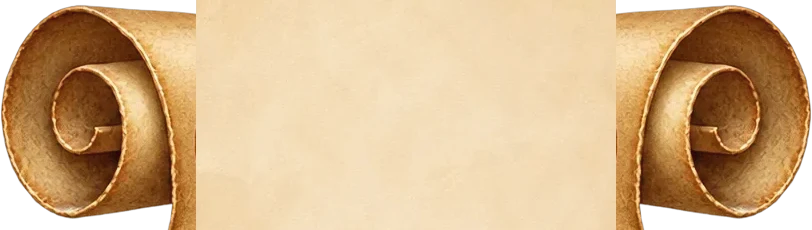
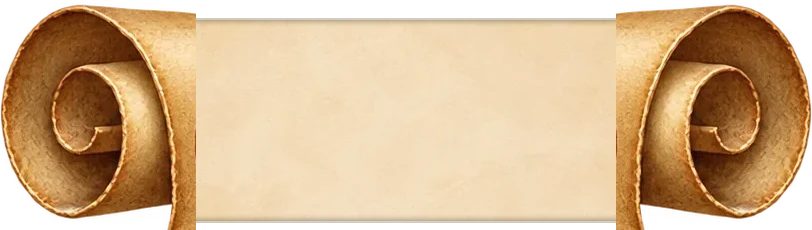
Книга: свитки-варианты без плоской подложки — пергамент заходит под рулоны, текст на пергаменте, перенос, центр буквы
Claude-Session: https://claude.ai/code/session_015A8DNsb5mr5DpbtnE63fGS

diff --git a/src/styles/parts/41-ny-book.css b/src/styles/parts/41-ny-book.css
@@ -1371,3 +1371,11 @@ html:has(.theme-ny_book .race-screen), body:has(.theme-ny_book .race-screen) { b
 .theme-ny_book .answer-block .choices-grid { grid-template-columns: repeat(2, minmax(0, 1fr)) !important; width: 100%; overflow: visible; max-height: none; }
 .theme-ny_book .answer-block .choices-grid .choice-plate { --sh: calc(64 * var(--u)); min-width: 0; font-size: calc(24 * var(--u)); overflow: visible; }
 .theme-ny_book .choices-grid .choice-plate, .theme-ny_book .host-screen > .choices-grid .choice-plate { overflow: visible; }
+
+/* свитки-варианты, правка 10.71: текст лежит прямо на пергаменте (без подложки), не заходит на рулоны, кружок-буква по центру высоты; длинное — переносится */
+.theme-ny_book .choices-grid .choice-plate { display: flex; align-items: center; overflow-wrap: anywhere; word-break: normal; hyphens: auto; line-height: 1.12; text-align: left; min-width: 0; text-wrap: pretty; }
+.theme-ny_book .choices-grid .choice-plate .key { align-self: center; margin: 0; flex: none; }
+.theme-ny_book .choices-grid .choice-plate:not(.correct) { background: none !important; }
+.theme-ny_book .choices-grid { align-items: center; }
+.theme-ny_book .host-screen .choices-grid.c-l .choice-plate { font-size: calc(26 * var(--u)); }
+.theme-ny_book .host-screen .choices-grid.c-xl .choice-plate { font-size: calc(21 * var(--u)); }

diff --git a/scripts/ny-book/make-hscroll.py b/scripts/ny-book/make-hscroll.py
@@ -5,8 +5,23 @@
 usage: python3 scripts/ny-book/make-hscroll.py"""
 from PIL import Image
 src = Image.open('public/ny-book/scroll.webp').convert('RGBA')
-cap = src.crop((0, 22, 196, 252))          # спираль рулона + кусок цилиндра
-mid = src.crop((340, 340, 900, 570))       # чистый пергамент без рамки и декора
-W = Image.new('RGBA', (196 + 420 + 196, 230), (0, 0, 0, 0))
-W.paste(cap, (0, 0), cap); W.paste(mid.resize((420, 230)), (196, 0)); cr = cap.transpose(Image.FLIP_LEFT_RIGHT); W.paste(cr, (196 + 420, 0), cr)
-W.save('public/ny-book/hscroll.webp', quality=88)   # 812×230: border-image slice 0 196 0 196 (края не растягиваются, середина — да)
+import numpy as np
+cap = src.crop((0, 22, 196, 252))          # спираль рулона + кусок цилиндра (непрозрачные строки на стыке: 14…229)
+mid = src.crop((340, 340, 900, 555))       # чистый пергамент без рамки и декора, высота 215 = высоте листа на стыке с рулоном
+H, MW = 230, 420
+W = Image.new('RGBA', (196 + MW + 196, H), (0, 0, 0, 0))
+m = mid.resize((MW, 215))
+mid_h = 215
+arr = np.array(m).astype(float)
+# кромка листа: по верху и низу пергамент темнеет (как край бумаги) и слегка закругляется — не плоский прямоугольник поверх рулонов
+for i in range(10):
+    k = 1 - 0.35 * (1 - i / 10) ** 2
+    arr[i, :, :3] *= k; arr[214 - i, :, :3] *= k
+arr[:2, :, 3] = 120; arr[-2:, :, 3] = 120
+m = Image.fromarray(arr.clip(0, 255).astype('uint8'), 'RGBA')
+# пергамент заходит ПОД рулоны (на 24 px с каждой стороны) — стык скрыт телом рулона, плоского «прямоугольника» нет
+m = m.resize((MW + 48, 205)); W.alpha_composite(m, (196 - 24, 18))
+W.alpha_composite(cap, (0, 0))
+cr = cap.transpose(Image.FLIP_LEFT_RIGHT); W.alpha_composite(cr, (196 + MW, 0))
+W.save('public/ny-book/hscroll.webp', quality=90)   # 812×230: border-image slice 0 196 0 196 (края не растягиваются, середина — да)
+bg = Image.new('RGBA', W.size, (240, 228, 200, 255)); bg.alpha_composite(W); bg.convert('RGB').resize((1624, 460)).save('/tmp/hscroll-preview.png')
